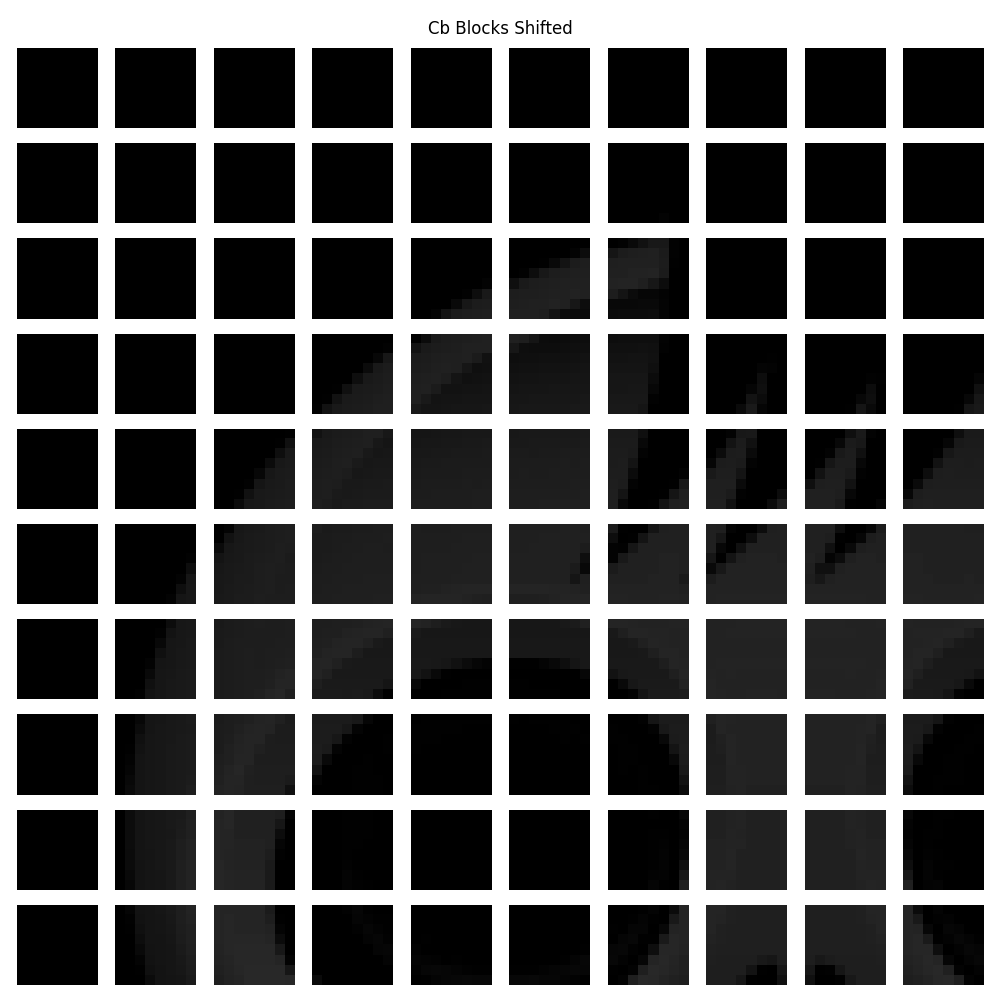
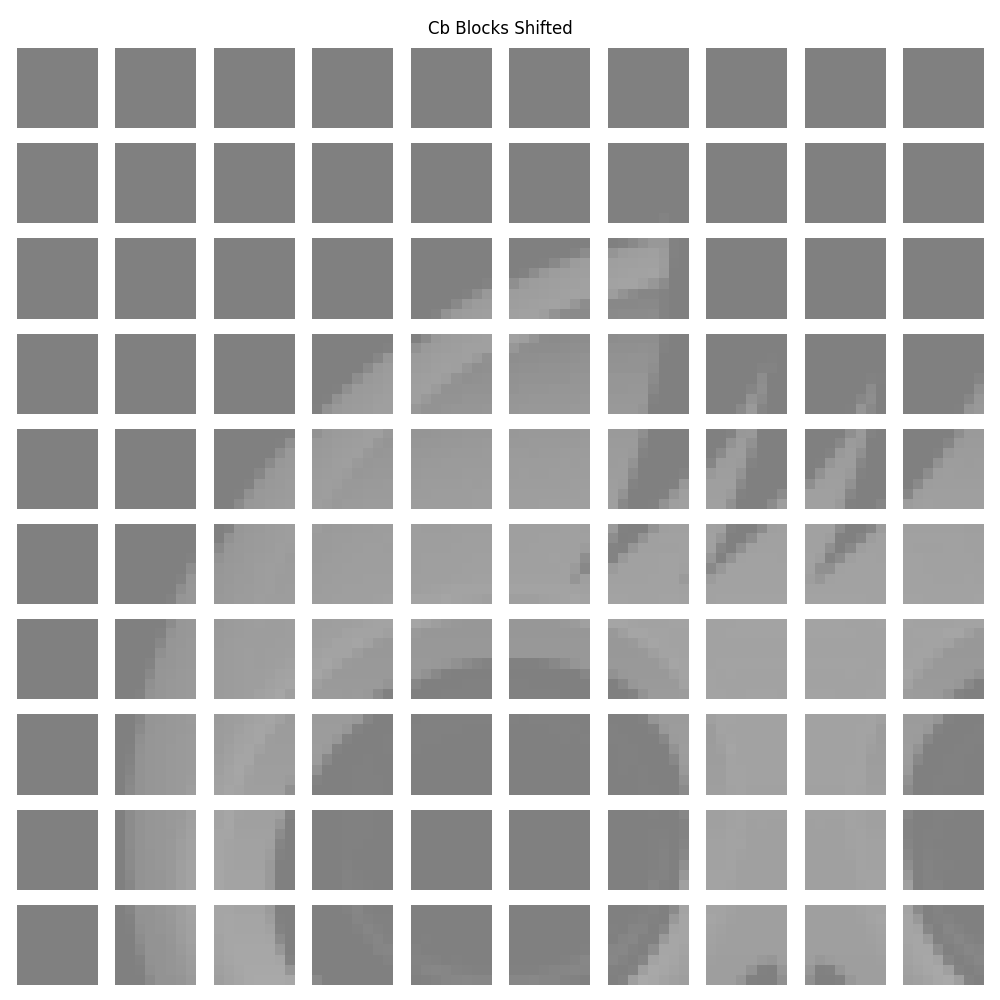
Shift vmin and vmax values according to value range of blocks --> visually now before and after shifting looks the same --> THIS IS JUST FOR DISPLAY!

diff --git a/main.py b/main.py
@@ -59,16 +59,16 @@ if __name__ == '__main__':
         print(Y_blocks.shape)
         print(Cb_blocks.shape)
         print(Cr_blocks.shape)
-        show_blocks(Y_blocks[:10, :10], INTER_IMAGE_DIR / f"blocked_Y_{Path(image.filename).name}", "Y Blocks")
-        show_blocks(Cb_blocks[:10, :10], INTER_IMAGE_DIR / f"blocked_Cb_{Path(image.filename).name}", "Cb Blocks")
-        show_blocks(Cr_blocks[:10, :10], INTER_IMAGE_DIR / f"blocked_Cr_{Path(image.filename).name}", "Cr Blocks")
+        show_blocks(Y_blocks[:10, :10], INTER_IMAGE_DIR / f"blocked_Y_{Path(image.filename).name}", 0, 255, "Y Blocks")
+        show_blocks(Cb_blocks[:10, :10], INTER_IMAGE_DIR / f"blocked_Cb_{Path(image.filename).name}", 0, 255,"Cb Blocks")
+        show_blocks(Cr_blocks[:10, :10], INTER_IMAGE_DIR / f"blocked_Cr_{Path(image.filename).name}", 0, 255,"Cr Blocks")
 
         # Shift pixel value range [0, 255] → [-128, 127] (for DCT)
         shifter = LevelShifter(128)
         Y_blocks, Cb_blocks, Cr_blocks = shifter.shift(Y_blocks, Cb_blocks, Cr_blocks)
-        show_blocks(Y_blocks[:10, :10], INTER_IMAGE_DIR / f"sh_blocked_Y_{Path(image.filename).name}", "Y Blocks Shifted")
-        show_blocks(Cb_blocks[:10, :10], INTER_IMAGE_DIR / f"sh_blocked_Cb_{Path(image.filename).name}", "Cb Blocks Shifted")
-        show_blocks(Cr_blocks[:10, :10], INTER_IMAGE_DIR / f"sh_blocked_Cr_{Path(image.filename).name}", "Cr Blocks Shifted")
+        show_blocks(Y_blocks[:10, :10], INTER_IMAGE_DIR / f"sh_blocked_Y_{Path(image.filename).name}", -128, 127,"Y Blocks Shifted")
+        show_blocks(Cb_blocks[:10, :10], INTER_IMAGE_DIR / f"sh_blocked_Cb_{Path(image.filename).name}", -128, 127, "Cb Blocks Shifted")
+        show_blocks(Cr_blocks[:10, :10], INTER_IMAGE_DIR / f"sh_blocked_Cr_{Path(image.filename).name}", -128, 127, "Cr Blocks Shifted")
         # Direct Cosine Transform (DCT)
         # Quantization (quantization table/matrix!)
         # Zigzag scan/ordering

diff --git a/Helper.py b/Helper.py
@@ -65,7 +65,7 @@ def save_subsample_plot(Y, Cb, Cr, Cb_up, Cr_up, output_file):
     print(f"Saved subsampling preview to '{output_file}'")
 
 # Saves (a portion of) blocks and displays them in a figure
-def show_blocks(blocks, output_file, title):
+def show_blocks(blocks, output_file, min, max, title):
     num_vertical, num_horizontal, block_height, block_width = blocks.shape
     fig, axes = plt.subplots(num_vertical, num_horizontal, figsize=(num_horizontal, num_vertical))
 
@@ -76,7 +76,7 @@ def show_blocks(blocks, output_file, title):
             # IF THIS IS OMITTED: The 0-255 scale will be applied for EACH BLOCK -->
             # contrast seems extremely high, as 0/255 is assigned to the lowest/highest value
             # PER BLOCK!
-            axes[i, j].imshow(blocks[i, j], cmap="gray", vmin=0, vmax=255)
+            axes[i, j].imshow(blocks[i, j], cmap="gray", vmin=min, vmax=max)
             axes[i, j].axis("off")
 
     plt.suptitle(title)
